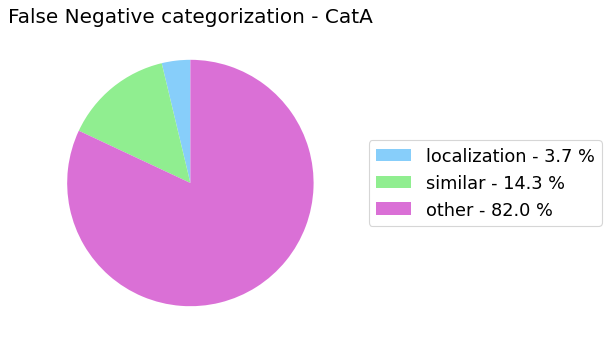
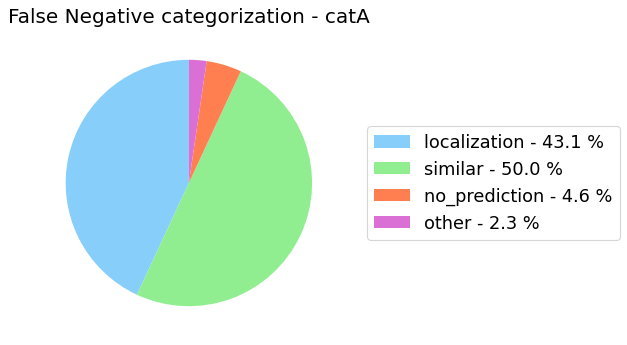
false negative

Changed region(s): [[0.0936, 0.1739, 0.5304, 0.8986], [0.5928, 0.3768, 0.9984, 0.6667], [0.0, 0.029, 0.624, 0.087]]

diff --git a/analyzer/analyses/errors.md b/analyzer/analyses/errors.md
@@ -24,6 +24,17 @@ nav_order: 3
 
 It analyzes the false positives for a specific category, by identifying the type of the errors and shows the gain that the model could achieve by removing all the false positives of each type.
 
+For classification tasks we have categorized the False Positive into three different types:
+- **_Background_**: the observation does not represent any of the categories (only for multi-label classification task).
+- **_Similar_**: the observation represents a similar category to the predicted one.
+- **_Other_**: all the other cases.
+
+For localization tasks we have identified four different errors:
+- **_Background_**: the category predicted has been confused with the background or the IoU with the corresponding annotation is less than a minimum threshold (set to 0.2).
+- **_Localization_**: the model has correctly predicted the category but the IoU with the corresponding annotation is less than the threshold.
+- **_Similar_**: the ground truth annotation represents a similar category to the predicted one and the IoU is equal or greater than the threshold.
+- **_Other_**: all the other cases.
+
 #### Parameters
 {: .no_toc}
 <dl>
@@ -202,6 +213,16 @@ my_comparator.analyze_false_positive_errors()
 {: .mb-6}
 
 It analyzes the false negatives for a specific category, by identifying the type of the errors.
+
+For classification tasks we have categorized the false negative into two different types:
+- **_Similar_**: the model has wrongly predicted a class which is similar to the one represented in the observation.
+- **_Other_**: all the other cases.
+
+For localization tasks we have identified four different errors:
+- **_Localization_**: the model has correctly predicted the category but the IoU with the corresponding annotation is less than the threshold but equal or greater than a minimum threshold (set to 0.2).
+- **_Similar_**: the ground truth annotation represents a similar category to the predicted one and the IoU is equal or greater than the threshold.
+- **_No_prediction_**: the ground truth annotation does not have a corresponding prediction or the IoU is less than a minimum threshold (set to 0.2).
+- **_Other_**: all the other cases.
 
 #### Parameters
 {: .no_toc}
